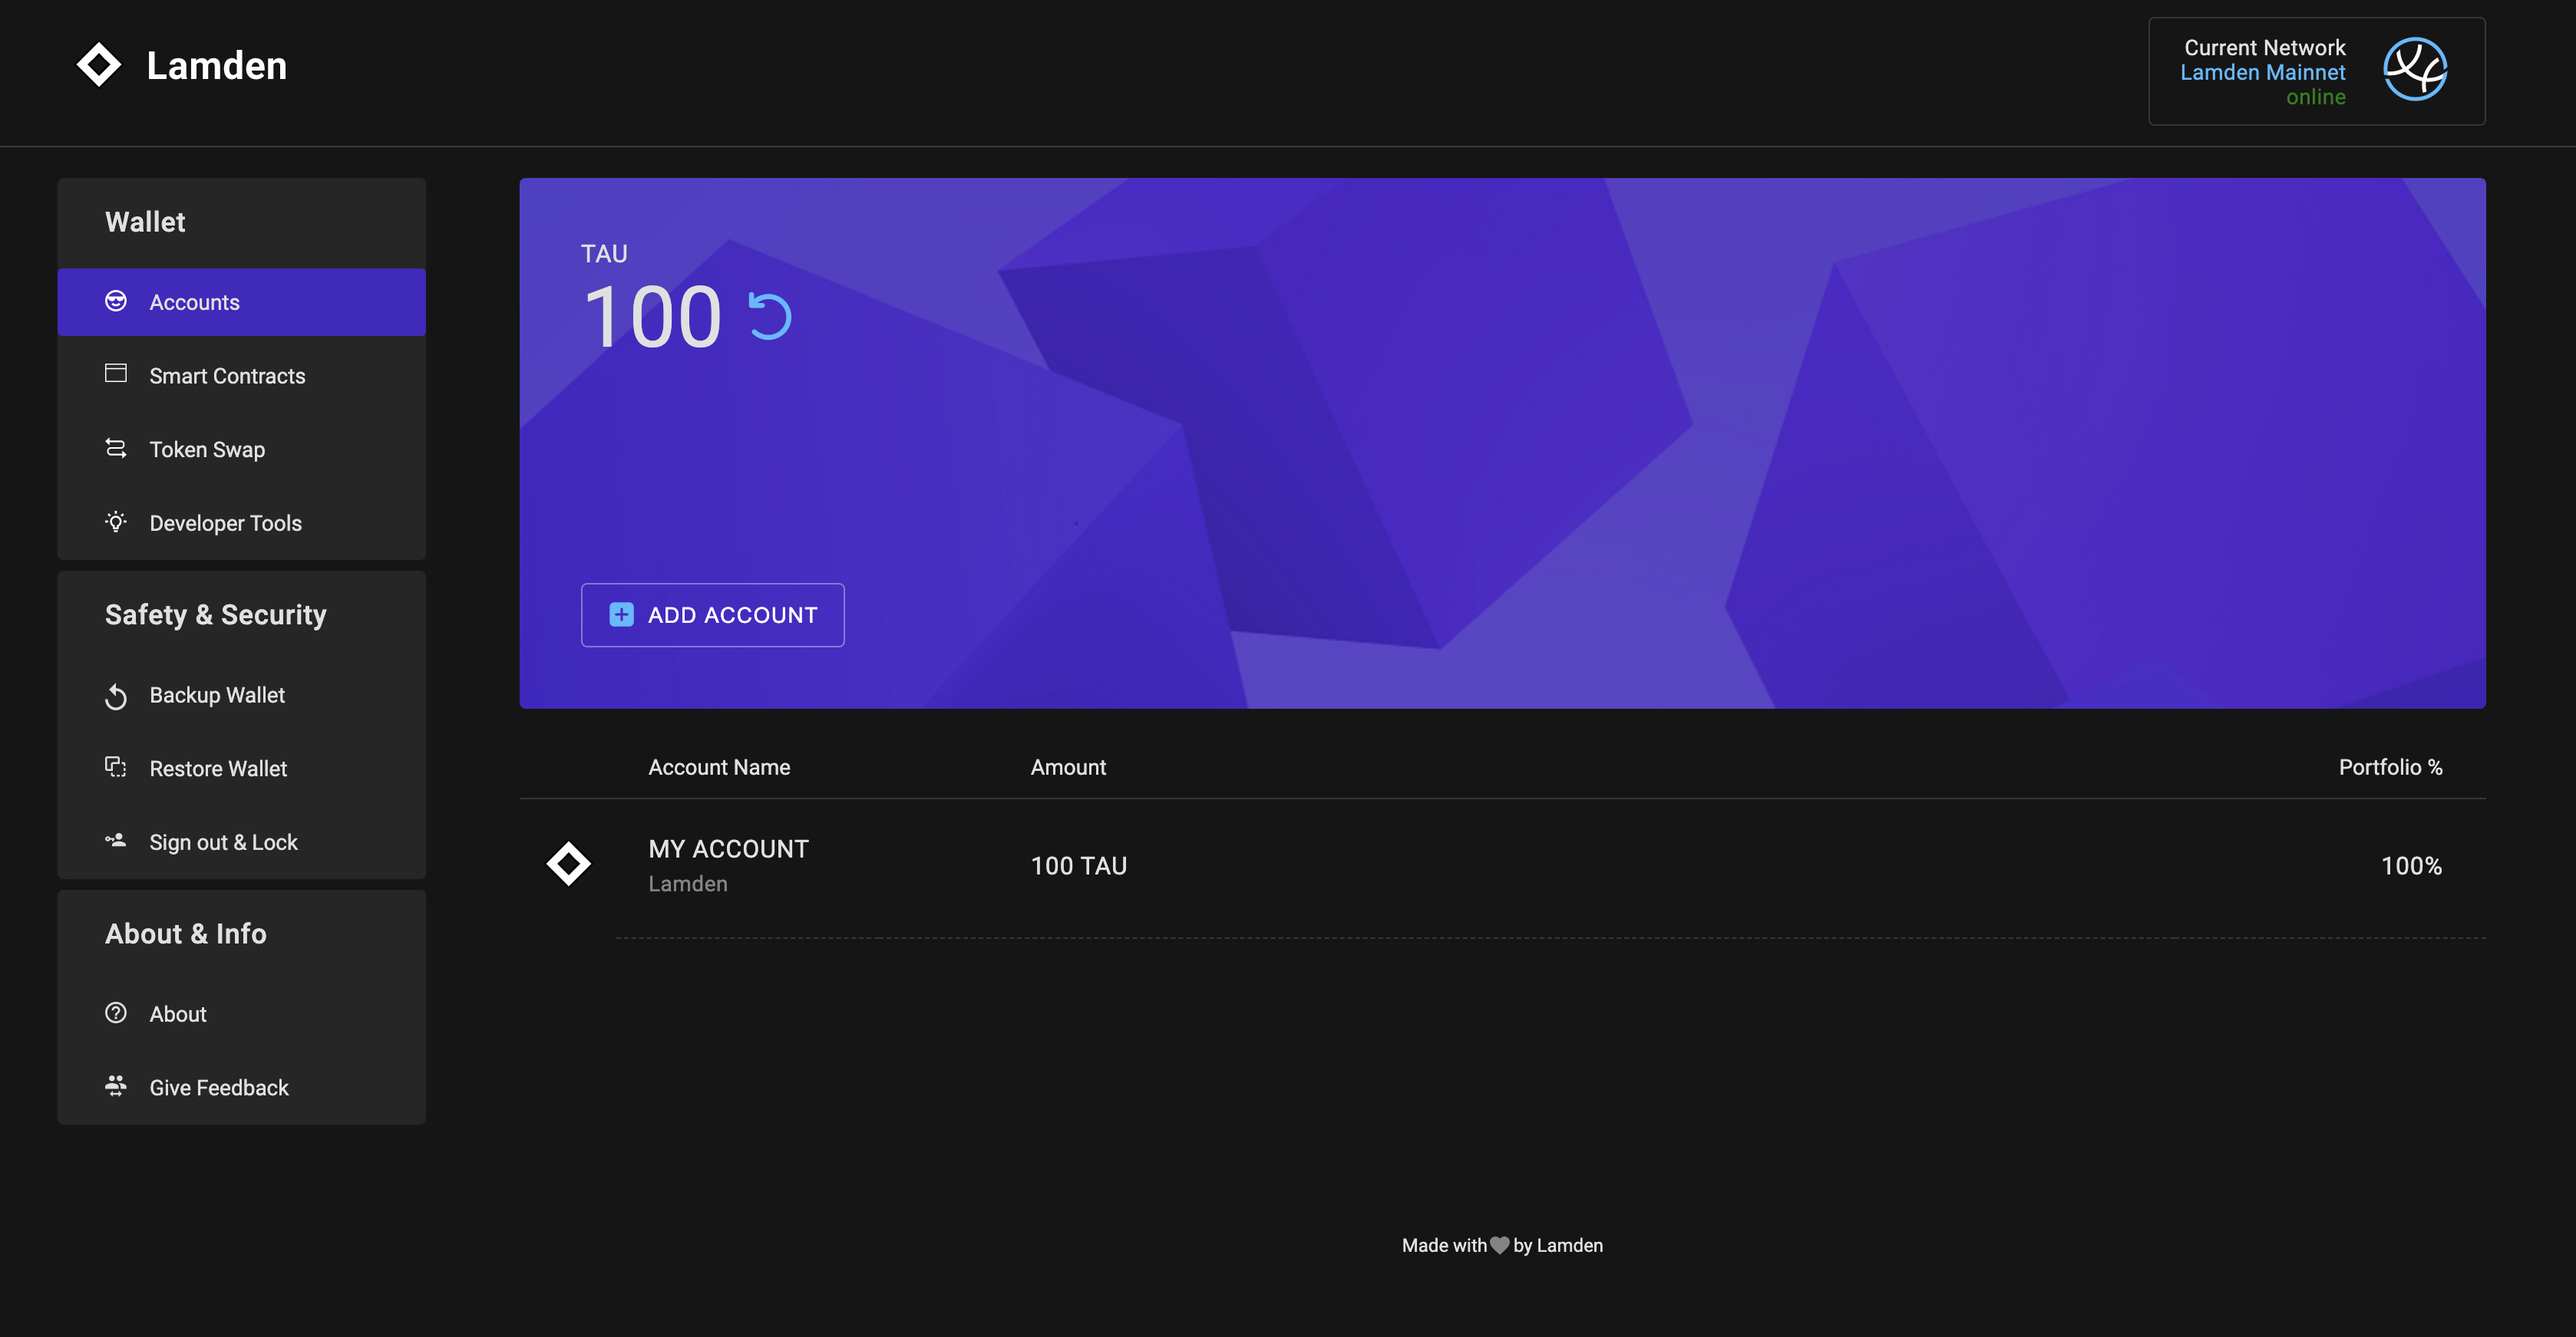
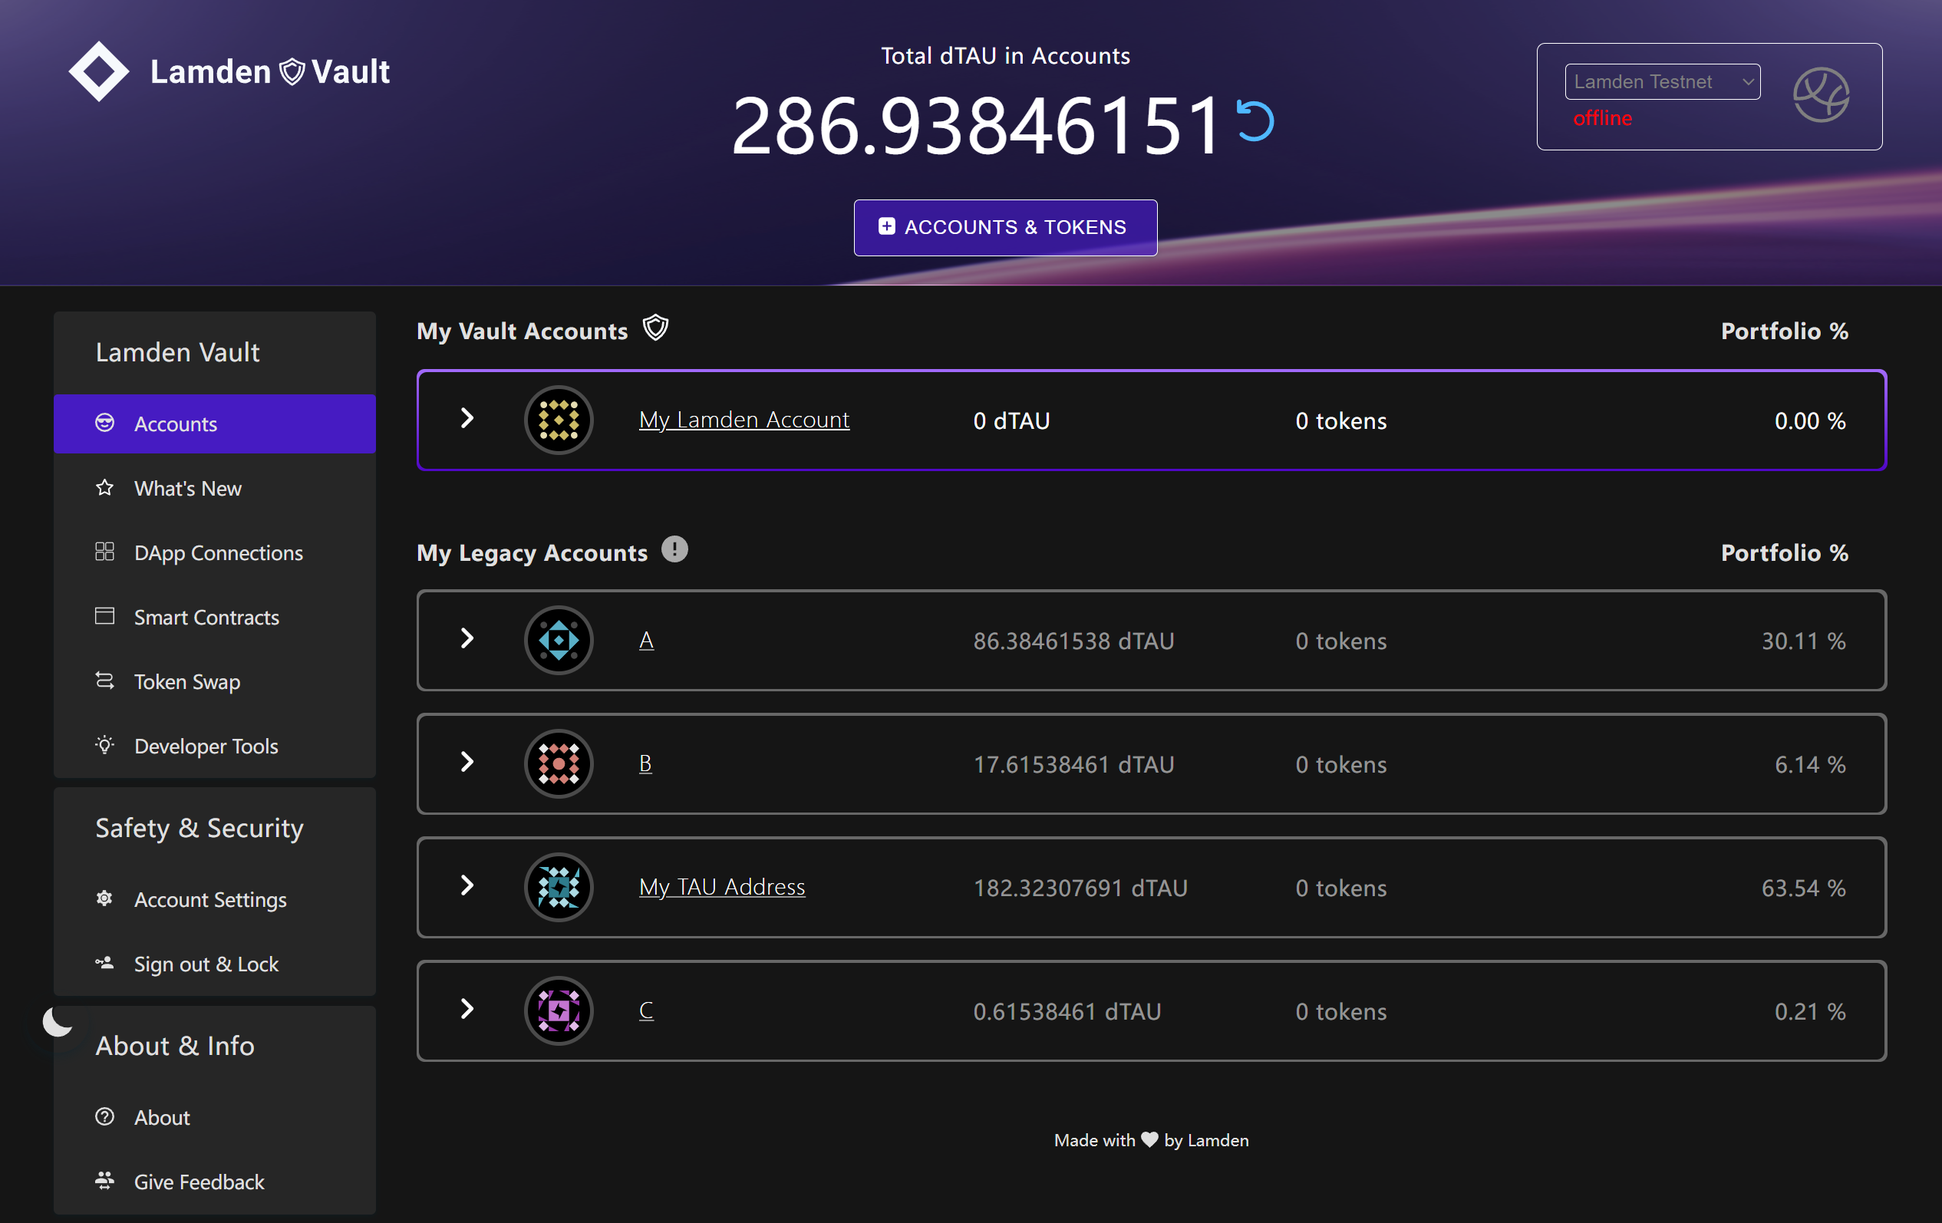
update document

diff --git a/sidebars.js b/sidebars.js
@@ -54,19 +54,24 @@ module.exports = {
 				'Settings':[{
 					'Backup Keys': [
 						'wallet/backup_overview',
+						'wallet/backup_recovery_phrase',
 						'wallet/backup_keystore',
 						'wallet/backup_view_keys'
 					],
 					'Restore Keys': [
+						'wallet/restore_recovery_phrase',
 						'wallet/restore_keystore',
-						'wallet/restore_secret_key',
 						'wallet/restore_linked_account'
+					],
+					'Manage Networks': [
+						'wallet/network_overview',
+						'wallet/change_network',
+						'wallet/manage_network'
 					]
 				},
 				'wallet/settings_changepassword'
 				],
-			},
-			'wallet/change_network'
+			}
 		],
 		'Developers':[
 			{

diff --git a/docs/wallet/backup_keystore.md b/docs/wallet/backup_keystore.md
@@ -1,34 +1,35 @@
 ---
 id: backup_keystore
-title: BACKUP LEGACY ACCOUNTS
-sidebar_label: BACKUP LEGACY ACCOUNTS
+title: Backup Legacy Accounts
+sidebar_label: Backup Legacy Accounts
 ---
 
 ![](/img/wallet/gif/1.0.0_backup_keystore.gif)
 
 ### **Lamden is not responsible for lost or stolen keys or keystores**
 
-This process will allow you to create a keystore file.
+This process will allow you to create a keystore file.(The Vault Accounts are not included)
 
 ## What is a Keystore file
 A keystore file is a password encrypted file that houses all your legacy accounts <u>[keypairs](/docs/wallet/accounts_linked_overview)</u>. 
 
 ## How to Create Keystore File
 1. Login to Lamden Vault
-2. Click `Settins` on the left-hand menu
+2. Click `Settings` on the left-hand menu
 3. Click the `BACKUP WALLET` button from the Settings Menu.
 4. Click the `BACKUP LEGACY ACCOUNTS` button
-5. Create a strong password to with the following rules and enter it in the `Password` box:
+5. Verify your password.
+6. Create a strong password to with the following rules and enter it in the `Password` box:
     - Is 15 or more characters in length
     - Has 1 lowercase letter
     - Has 1 uppercase letter
     - Has 1 number
     - Has 1 special character
-6. Enter the same password again in the `Confirm Password` box.
-7. If you want you can create a password hint.  This will be shown to you during the <u>[Restore Keystore](/docs/wallet/restore_keystore)</u> process.
-8. Click the `CREATE KEYSTORE` button
-9. Click the `I Understand` checkbox to confirm you have read and understand the <u>[safe storage](/docs/wallet/backup_keystore#safe-storage-suggestions)</u> suggestions.
-10. Click the `DOWNLOAD FILE` button and the keystore will be downloaded via your browser to your default Downloads folder.  At this time you should move the file to a safe location.
+7. Enter the same password again in the `Confirm Password` box.
+8. If you want you can create a password hint.  This will be shown to you during the <u>[Restore Keystore](/docs/wallet/restore_keystore)</u> process.
+9. Click the `CREATE KEYSTORE` button
+10. Click the `I Understand` checkbox to confirm you have read and understand the <u>[safe storage](/docs/wallet/backup_keystore#safe-storage-suggestions)</u> suggestions.
+11. Click the `DOWNLOAD FILE` button and the keystore will be downloaded via your browser to your default Downloads folder.  At this time you should move the file to a safe location.
 
 ## Safe Storage Suggestions
 Each storage suggestion has it's pros and cons.  Pick the one that works best for you or come up with your own solution.

diff --git a/docs/wallet/restore_recovery_phrase.md b/docs/wallet/restore_recovery_phrase.md
@@ -1,0 +1,35 @@
+---
+id: restore_recovery_phrase
+title: Restore Accounts from Recovery Phrase
+sidebar_label: From Recovery Phrase
+---
+
+1. Unlock Lamden Vault
+2. From the left-hand menu, click `Settings`
+3. Click the `RESTORE WALLET` button from the Settings Menu.
+4. Click `RESTORE AACCOUNTS FROM RECOVERY PHRASE` button.
+5. Enter your secret recovery phrase.
+6. Click the `CONFIRM KEYSTORE` button.
+7. Enter the password which was used to back up the Keystore.
+    - If you entered a hint when you <u>[Created the Keystore](/docs/wallet/restore_keystore)</u> you will see it displayed.
+8. Click the `I Understand` checkbox and then click the `I Understand` button.
+9. Enter your password in the inputbox.
+10. Enter your 24-words seed recovery phrase in order, then click the `NEXT` button.
+    ![](/img/wallet/restore_enter_mem.png)
+8. Put a checkmark next to each accout you wish to restore
+    ![](/img/wallet/firstrun_add_wallet.png)
+9.  Click the `RESTORE ACCOUNTS` button.
+10. After the restoration is complete you may see the following messages:
+    - (success) `Added <account name> to your wallet` - This means the account was successfully restored.
+    - (success) `Updated the private key for ` - This means a previously <u>[Watched Account](/docs/wallet/accounts_creation#track-account)</u> has been updated with the associated secret key and is now a full account.
+    - (error) `Keypair already exists as <account name>` - There is an Account in your wallet that already has the keypair you're trying to restore.
+    - (error) `Cannot decrypt Secret Key: wrong password or bad data. Encrypted Data: <secret key>` - After the key was decrypted with the keystore password the resulting information was not a secret key.
+11. Click, `FINISH`
+    
+After going back the the `Accounts` screen you will see the newly restored accounts.
+
+## Restore Linked Accounts
+If any of the newly restored account were once <u>[Linked Accounts](/docs/wallet/accounts_linked_overview)</u> then you will need to follow the <u>[Restore Linked Accounts](/docs/wallet/restore_linked_account)</u> process to reconnect them.
+
+## Create a Keystore File
+See <u>[Create Keystore](/docs/wallet/backup_keystore)</u>.

diff --git a/docs/wallet/accounts_creation.md b/docs/wallet/accounts_creation.md
@@ -4,43 +4,12 @@ title: Creating Wallet Accounts
 sidebar_label: Creating
 ---
 
-You can add accounts to your Lamden Vault in three ways.
-
-## New Account
+## Add New Account
 This will create you a brand new wallet account with a fresh wallet address.
 
-1. From the left-hand menu select "Accounts"
-2. Click the "Add Accounts" button
-3. Select "Lamden" from the Account Type dropdown (default)
-4. Click the "Create New" button (default)
-5. Enter a Nickname for your new Account
-6. Click the "Save" button
+1. Click the "ACCOUNTS & TOKENS" button
+2. Select "Account" from the Account Type dropdown (default)
+3. Enter a Nickname for your new Account (Optional)
+4. Click the "Save" button
 
 ![](/img/wallet/gif/1.0.0_account_add_new.gif)
-
-## Existing Account
-This will create you an account based off an existing account's Private Key.  This is a way to restore accounts that you have backed up manually and not with a keystore file.
-
-1. From the left-hand menu select "Accounts"
-2. Click the "Add Accounts" button
-3. Select "Lamden" from the Account Type dropdown (default)
-5. Click the "Add Existing" button (default)
-6. Enter the PRIVATE KEY in the "Private Key" box
-7. Enter a Nickname for your new Account in the "Account Nickname" box
-8. Click the "Save" button
-
-![](/img/wallet/gif/1.0.0_account_add_existing.gif)
-
-
-## Track Account
-Sometimes you may want to track an Account that you don't own.  This option will allow you to input any Account address and it will show up in your Lamden Vault. Because you did not add this address with the Private Key, you will not be able to make transactions with this account.
-
-1. From the left-hand menu select "Accounts"
-2. Click the "Add Accounts" button
-3. Select "Lamden" from the Account Type dropdown (default)
-5. Click the "Track Address" button (default)
-6. Enter the Account Address in the "Account Address" box
-7. Enter a Nickname for this new Account in the "Account Nickname" box
-8. Click the "Save" button
-
-![](/img/wallet/gif/1.0.0_account_add_watching.gif)

diff --git a/docs/wallet/first_vault_restore.md b/docs/wallet/first_vault_restore.md
@@ -7,26 +7,32 @@ sidebar_label: Fisrtrun Restore Lamden Vault
 You can restore accounts to your Lamden Vault in three ways at the first time you run.
 
 ### Restore Wallet from Keystore
-![](/img/wallet/gif/1.0.0_setup_from_keystore.gif)
+
 1. Click, `Restore A WALLET`.
+    ![](/img/wallet/firstrun_intro.png)
 2. Enter a strong password in the `Password` box that:
     - Is 10 or more characters in length
     - Has 1 lowercase letter
     - Has 1 uppercase letter
     - Has 1 number
     - Has 1 special character
+  ![](/img/wallet/firstrun_create_password.png)
 3. Re-enter the password in the `Confirm Password` box.
 4. Click, `SAVE PASSWORD`.
 5. Select the option you want from the dropown.
     1. Select "Seed Recovery Phrase". Enter your seed recovery phrase in the seperate boxes.
+       ![](/img/wallet/firstrun_recovery_phrase.png)
     2. Select "Keystore File". Chose a Keystore File in one of the following ways:
        - Click the link `click here to choose a file` to browse to the Keystore file.
        - Drag and drop the Keystore file into the `Drop File Here` box on the Lamden Vault. 
+        ![](/img/wallet/firstrun_keystore.png)
     3. Select "Private Keys". Enter the private key of the account you want to restore in the `Private Key` input box.
+    ![](/img/wallet/firstrun_privatekeys.png)
 6. Click the `NEXT` button.
 7. If you don't select "Keystore File" to restore your account in step 5, skip this step. Enter the password which was used to back up the Keystore.
     - If you entered a hint when you <u>[Created the Keystore](/docs/wallet/restore_keystore)</u> you will see it displayed.
 8. Put a checkmark next to each accout you wish to restore
+    ![](/img/wallet/firstrun_add_wallet.png)
 9.  Click the `RESTORE ACCOUNTS` button.
 10. After the restoration is complete you may see the following messages:
     - (success) `Added <account name> to your wallet` - This means the account was successfully restored.

diff --git a/docs/wallet/manage_network.md b/docs/wallet/manage_network.md
@@ -1,0 +1,45 @@
+---
+id: manage_network
+title: Manage Wallet Network
+sidebar_label: Manage Network
+---
+
+You can manage(add/edit/remove) the wallet networks by clicking the `MANAGE NETWORKS` button on the `Setttings` screen.
+
+## Add Network
+
+![](/img/wallet/gif/manage_network_add.gif)
+
+1. Click `Settings` on the left-hand menu
+2. Click the `MANAGE NETWORKS` button from the Settings Menu.
+3. Fill the network info you want to add in the from.
+   - name(mandatory): The network name 
+   - type(mandatory): Network type(mainnet/testnet/devnet)
+   - currency symbol(mandatory): The symbol of currency on the network
+   - hosts(mandatory, MIN 1): Node server
+   - Block Service Hosts(mandatory, MIN 1): Block server
+   - Block Explorer(optional)
+4. Click `ADD NETWORK` button.
+5. Click `Finish` button.
+
+## Edit Network
+
+![](/img/wallet/gif/manage_network_edit.gif)
+
+1. Click `Settings` on the left-hand menu
+2. Click the `MANAGE NETWORKS` button from the Settings Menu.
+3. Select a custom network from the networks dropdown.
+4. Edit the network info.
+5. Click `SAVE` button.
+6. Click `Finish` button.
+
+## Remove Network
+
+![](/img/wallet/gif/manage_network_remove.gif)
+
+1. Click `Settings` on the left-hand menu
+2. Click the `MANAGE NETWORKS` button from the Settings Menu.
+3. Select a custom network from the networks dropdown.
+4. Edit the network info.
+5. Click `REMOVE` button.
+6. Click `Finish` button.

diff --git a/docs/wallet/change_network.md b/docs/wallet/change_network.md
@@ -4,21 +4,11 @@ title: Change Wallet Network
 sidebar_label: Change Network
 ---
 
-The Lamden Vault can connect to two networks:
+The Lamden Vault can connect to networks:
 
 1. **Lamden Mainnet**: This is the main Lamden Network where `TAU` is the currency that pays for transactions.
 2. **Lamden Testnet**: This is the main Lamden Network where `dTAU` is the currency that pays for transactions.
+3. **Custom Network**: This is the custom network added by user.
 
-There are 2 ways to change between `Mainnet` and `Testnet`
-
-1. Click the `Current Network` box in the upper right hand corner of the Wallet.
-    - Clicking this box will toggle between `Mainnet` and `Testnet`.
-2. Click `Developer Tools` on the left-hand wallet menu
-    - From the `Current Network` drop-down box you can select which network you want.
-
-
-## Clearing Network Cache
-The wallet uses some internal cacheing for wallet balances. If you find your balances incorrect for whatever reason try clearing the network cache.
-1. Click `Developer Tools` on the left-hand wallet menu.
-2. From the `Current Network` drop-down box you can select which network you want to clear the cache on.
-3. Click the `CLEAR NETWORK CACHE` button.
+## Change Network
+You can click the `Current Network` box in the upper right hand corner of the Wallet to switch networks.

diff --git a/docs/wallet/first_vault_create.md b/docs/wallet/first_vault_create.md
@@ -1,20 +1,24 @@
 ---
 id: first_vault_create
 title: First Time Create Lamden Vault
-sidebar_label: Fisrtrun Restore Lamden Create
+sidebar_label: Fisrtrun Create Lamden Vault
 ---
 ### First Lamden Vault Create
-1. Click, `CREATE A WALLET`.
+1. Click, `Restore A WALLET`.
+    ![](/img/wallet/firstrun_intro.png)
 2. Enter a strong password in the `Password` box that:
     - Is 10 or more characters in length
     - Has 1 lowercase letter
     - Has 1 uppercase letter
     - Has 1 number
     - Has 1 special character
+  ![](/img/wallet/firstrun_create_password.png)
 3. Re-enter the password in the `Confirm Password` box.
 4. Click, `SAVE PASSWORD`.
 5. Copy the seed recovery phrase on paper or in a password manger, then click the check box.
+    ![](/img/wallet/firstrun_gen_memoric.png)
 6. Click the `NEXT` button.
 7. Now enter the seed recovery phrase you copied on last screen in the seperate boxes and the click the `NEXT` button.
-8. Click, `I UNDERSTAND` if you understand **backing up your wallet and keeping your passwords safe is YOUR RESPONSIBILITY**.
+   ![](/img/wallet/firstrun_verify_memoric.png)
+8.  Click, `I UNDERSTAND` if you understand **backing up your wallet and keeping your passwords safe is YOUR RESPONSIBILITY**.
 9.  Follow steps to <u>[Backup Lamden Vault](/docs/wallet/backup_keystore)</u>.

diff --git a/docs/wallet/acounts_overview.md b/docs/wallet/acounts_overview.md
@@ -4,9 +4,19 @@ title: What Are Wallet Accounts?
 sidebar_label: Overview
 ---
 
-Wallet accounts store your TAU Tokens in the Lamden Vault.
+Wallet accounts store your TAU Tokens.
 
-You can have multiple wallet accounts. Each account has its own unique keypair which is encrypted in the Lamden Vault.
+There are two types of accounts. One is Vault Accounts, and the other is Legacy Accounts.
+
+## What are Vault Accounts
+
+These accounts are created through a unique 24-word phrase that is generated when you first setup. Your funds are connected to that phrase.
+
+It is important to write the 24-word phrase down on paper and hide it somewhere, put it in a safety deposit box, or use a secure password manager.
+
+## What are Legacy Accounts
+
+Only old users own such accounts. Each account has its own unique keypair which is encrypted in the Lamden Vault.
 
 It is heavily recommened that you do a <u>[BACKUP](/docs/wallet/backup_overview)</u> **everytime** you add a new account as each backup only stores the accounts you had at that specific point in time.
 

diff --git a/docs/wallet/backup_recovery_phrase.md b/docs/wallet/backup_recovery_phrase.md
@@ -1,0 +1,19 @@
+---
+id: backup_recovery_phrase
+title: View Recovery Phrase
+sidebar_label: View Recovery Phrase
+---
+
+![](/img/wallet/gif/backup_recovery_phrase.gif)
+
+## How to backup Recovery Phrase
+1. Login to Lamden Vault
+2. Click `Settings` on the left-hand menu
+3. Click the `BACKUP WALLET` button from the Settings Menu.
+4. Click the `VIEW RECOVERY PHRASE` button
+5. Enter your Lamden Vault password in the `Password` box
+6. Click `CONFIRM PASSWORD`
+7. Copy the seed recovery phrase on paper or in a password manger, then click the check box.
+8. Now enter the seed recovery phrase you copied on last screen in the seperate boxes and the click the `NEXT` button.
+
+**backing up your Recovery Phrase correctly and keeping it safe is YOUR RESPONSIBILITY**.

diff --git a/docs/wallet/first_vault_install.md b/docs/wallet/first_vault_install.md
@@ -25,3 +25,7 @@ Click the `lamden logo` on the extentions bar to launch the wallet.
 ![](/img/wallet/wallet_extention_logo.png)
 
 - If you don't see the `lamden logo` click the `puzzle piece` logo and then `pin` the Lamden Vault to the extention bar.
+
+## First Time Run
+You can create/restore your Lamden Vault at the first time you run it.
+![](/img/wallet/first_run_main.png)

diff --git a/docs/wallet/lock_unlock.md b/docs/wallet/lock_unlock.md
@@ -4,7 +4,7 @@ title: Lock and Unlock Wallet
 sidebar_label: Lock and Unlock
 ---
 
-![](/img/wallet/gif/1.0.0_account_delete.gif)
+![](/img/wallet/gif/1.0.0_lock_unlock.gif)
 
 ## Lock Wallet
 The Lamden Vault can be locked in two ways.
